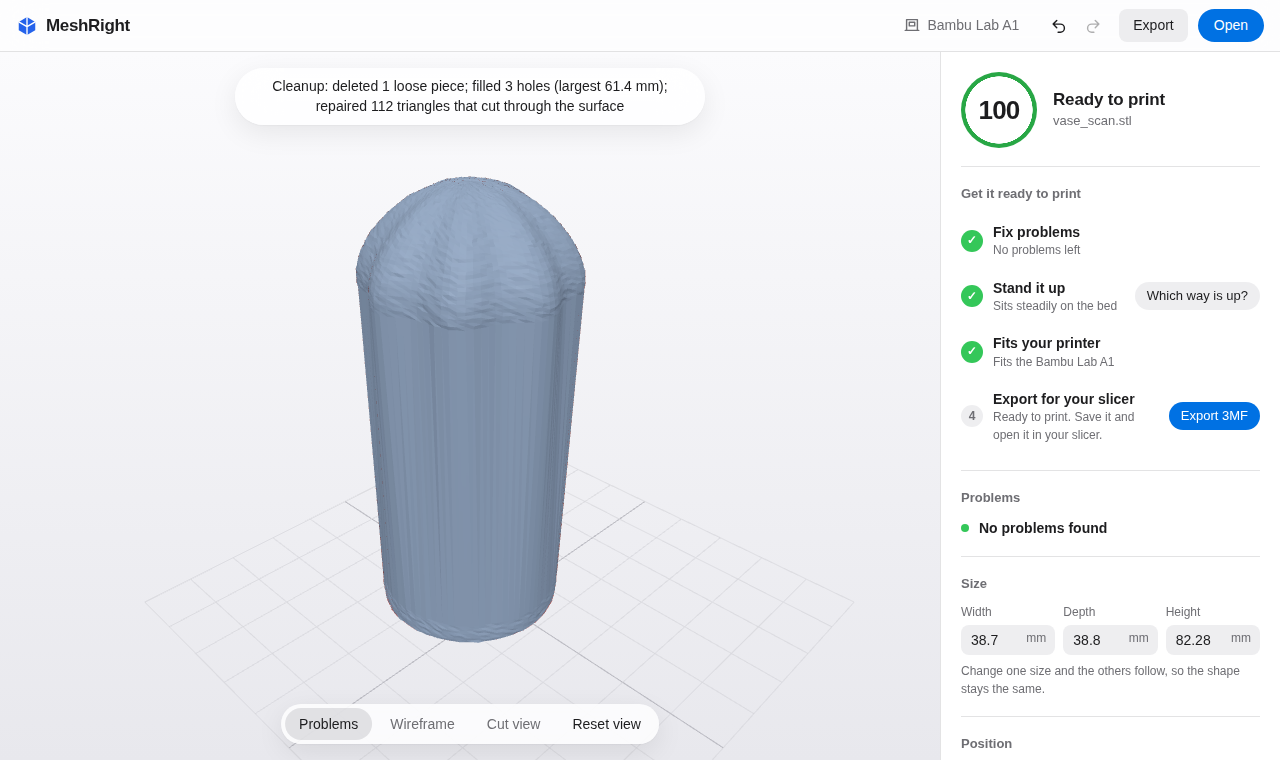
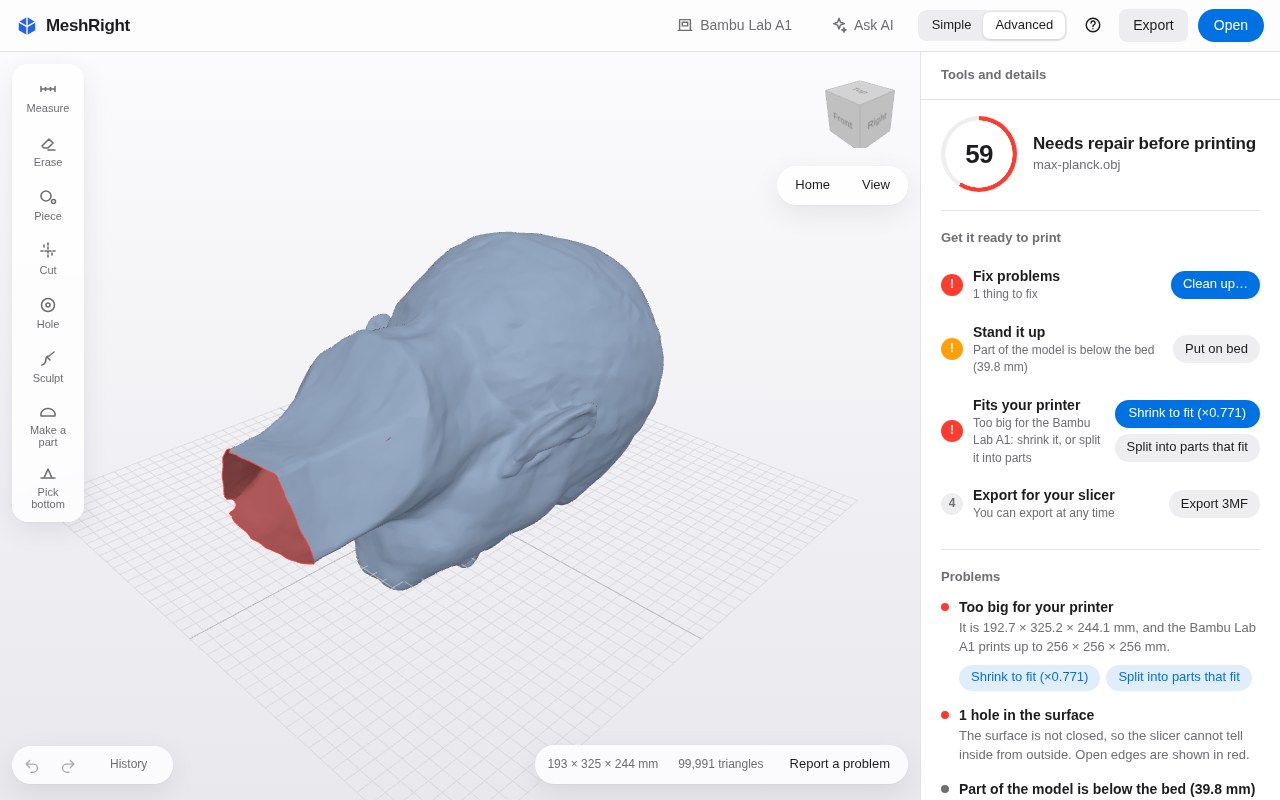
Docs for 0.3.0: README covers Simple/Advanced, new screenshots and demo

diff --git a/README.md b/README.md
@@ -8,7 +8,7 @@ and downloaded models and want one simple tool instead of several. It runs on
 Windows, macOS and Linux, and opens in your web browser, but everything
 happens on your own computer.
 
-![A tilted scan standing on a table is cleaned up, stood upright and made ready to print in MeshRight](docs/demo.gif)
+![A scan of a figure on a table goes from a score of 59 to Ready to print, one button at a time, in MeshRight](docs/demo.gif)
 
 > **Status: early alpha.** Everything below works; expect rough edges.
 > Please report problems with an example file.
@@ -19,23 +19,32 @@ happens on your own computer.
    [Releases page](https://github.com/Huzy85/MeshRight/releases) and
    double-click it. MeshRight opens in your web browser.
 2. Drop a model or scan onto the page, or click a sample model.
-3. Read the score and the problems list, then work down the checklist on
-   the right. Press **?** at any time for help.
+3. Press the blue button on the card at the bottom. It always does the next
+   right thing: fix, stand it up, choose your printer, export. Press **?** at
+   any time for help.
 
 ## In three steps
 
 1. **Open** a scan or model. MeshRight checks it and gives it a score from 0
    to 100, with every problem explained in plain English and shown on the model.
-2. **Follow the checklist**: Fix problems, Stand it up, Fits your printer,
+2. **Follow the steps**: Fix problems, Stand it up, Fits your printer,
    Export for your slicer. Each step is one button, and every change can be
-   undone.
+   undone. You can also step through the problems one at a time and skip any
+   you want to keep.
 3. **Print**: export a file, or open it straight in your slicer.
 
 No settings to learn, no account, and your files never leave your computer.
 
-| Problems shown on the model | Clean up shows its plan first | Which way is up? |
+**Simple or Advanced.** A switch at the top picks how much you see, and it is
+remembered between visits. *Simple* shows one card with the score, one line
+on what is wrong and one button. *Advanced* shows every tool and number in a
+panel beside the model (drag it wider, or hide it with **T**), with the edit
+tools on the left rail. A view cube in the corner turns the model like a
+slicer does (keys 0 to 6 too).
+
+| Simple: one card, one button | Advanced: every step and problem | Clean up shows its plan first |
 |---|---|---|
-| ![The problems list beside a scan](docs/screenshot.png) | ![The Clean up plan](docs/screenshot-cleanup.png) | ![Pictures of possible bottoms](docs/screenshot-which-way-up.png) |
+| ![Simple mode with the score card under a scan](docs/screenshot-simple.png) | ![The steps and problems list beside a scan](docs/screenshot.png) | ![The Clean up plan](docs/screenshot-cleanup.png) |
 
 ## What it can do
 
@@ -65,6 +74,8 @@ No settings to learn, no account, and your files never leave your computer.
 - **Give it thickness** turns an open surface (a face scan, a mask) into a
   printable shell.
 - **Sculpt** brushes: smooth rough spots, flatten, push out or in.
+- A model saved in the wrong units (it opens a few millimetres across) is
+  offered "Saved in inches / centimetres / metres" before anything else.
 
 **Stand it up**
 - **Which way is up?** offers pictures of likely bottoms; or click the bottom
@@ -111,10 +122,39 @@ No settings to learn, no account, and your files never leave your computer.
   [Ask AI](#ask-ai).
 - Works with AI apps: `meshright mcp` offers the checks, Clean up and every
   action to Claude Desktop, Claude Code, Cursor and other MCP apps (see Use).
-- Sample models, first-time tips and keyboard shortcuts (press **?**).
+- Sample models, a searchable help guide of 45 topics, a tooltip on every
+  control, and keyboard shortcuts (press **?**).
+- **Your work survives a crash**: after every step the open model is saved in
+  the settings folder (the newest 10 are kept), so you can reopen it.
+- **Report a problem** (bottom-right corner) collects the recent error
+  messages, your steps, the version and your system into a zip in Downloads
+  and opens an email for you to send. Your model is only included if you tick
+  the box. Nothing is sent unless you send that email.
 - Runs on your own computer and works offline. The only thing it asks the
   internet is GitHub's latest version number, once a day (you can switch
   that off).
+
+**Extra tools for AI apps and scripts (not in the browser yet)**
+
+These are new in 0.3.0 and can be used through `meshright mcp` (see Use) or
+the app's API. They will get buttons in the browser later.
+
+- **Scan to print**: one step that removes the scan table, smooths, reduces
+  detail, cleans up and makes a closed solid.
+- **Smooth scan** (light, medium or heavy) without shrinking the model, and
+  **Remove base** to cut away the flat table a scan was standing on.
+- **Fill curved holes** with a patch that follows the surface, **Repair
+  wound** for a broken-off area whose piece is lost, and **Seam polish** for
+  rough joins.
+- **Symmetry repair**: finds the mirror plane of a part that should be
+  symmetric and rebuilds the broken side from the good one.
+- **Photo-guided repair**: match four or more points between a photo of the
+  intact part and the scan, and missing areas the photo shows are filled.
+- **Even out triangles** (remesh), a **curvature map** and a **deviation map**
+  against another scan.
+- **Molds**: check whether a part can be cast, then make a two or three piece
+  mold with a pour hole, air vents, alignment pins, bolt holes and optional
+  printable clamps.
 
 ## Ask AI
 
@@ -283,7 +323,8 @@ Everything happens on your own computer. MeshRight has no account and no
 tracking. It contacts the internet for two things only: GitHub's latest
 version number, once a day (switch it off in Help), and, only if you set it
 up, the AI service you chose in Ask AI, which receives the check report and
-your question, never the model.
+your question, never the model. Report a problem only opens an email in your
+own mail app; you see it and choose whether to send it.
 
 ## Words used
 
